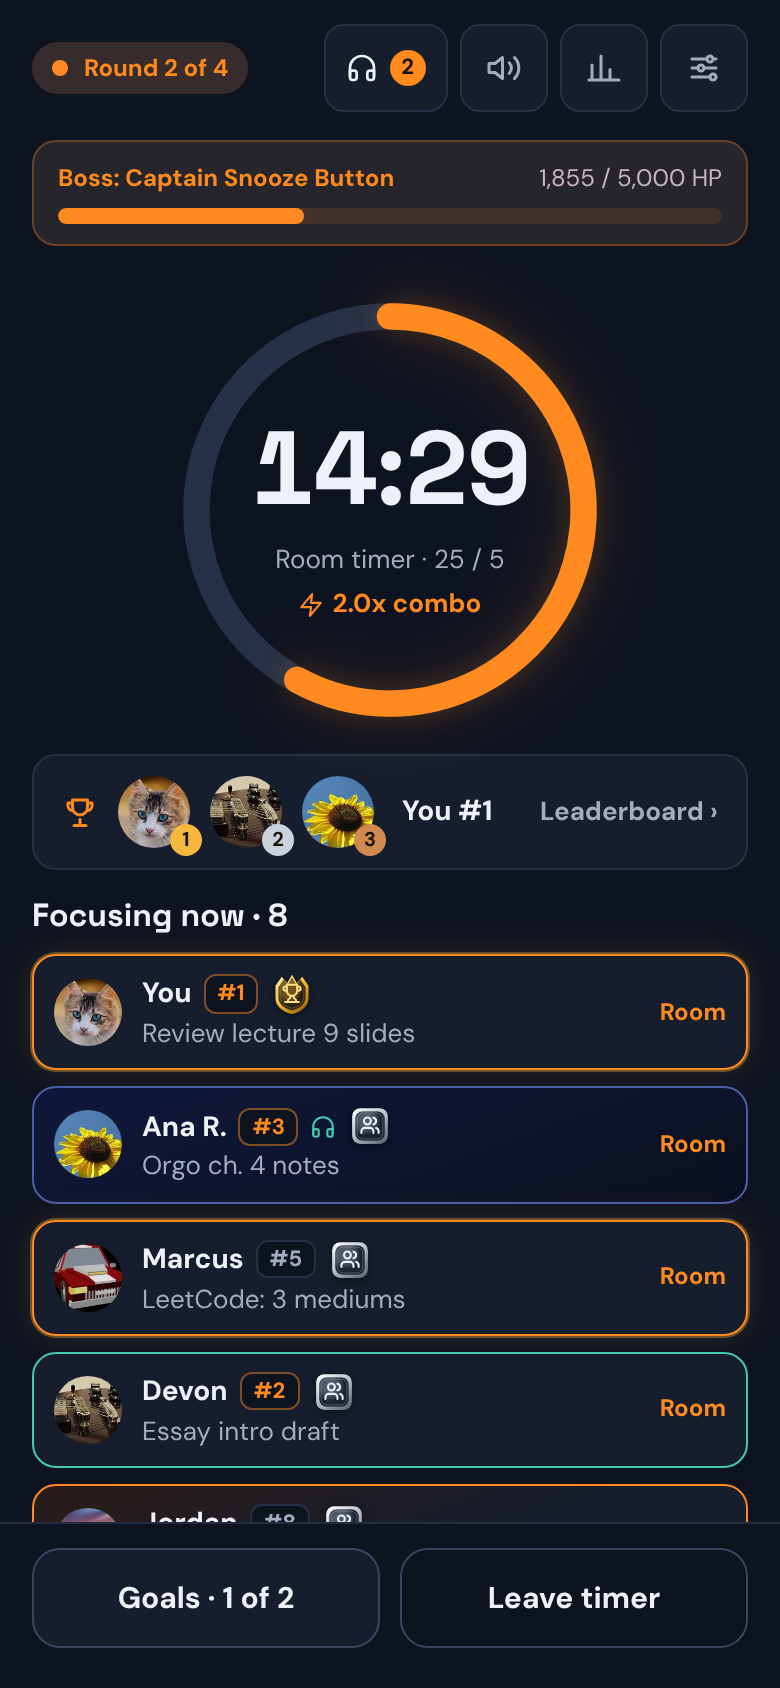
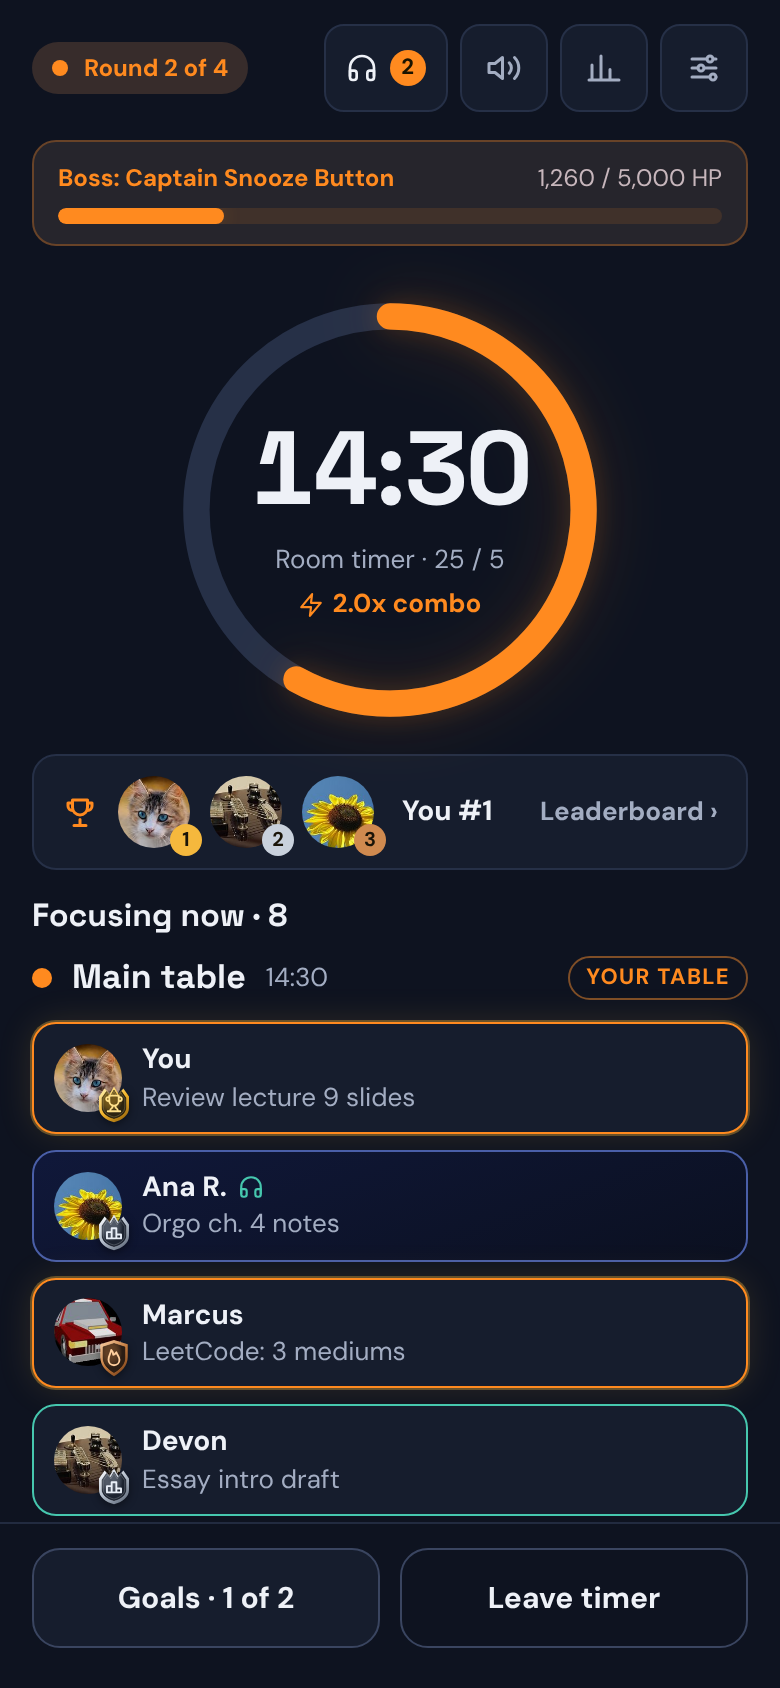
Release 0.7.1
Bump to 0.7.1, add the changelog entries #210, #213 to #216, #218
and #219 were missing, update the README features and retake its
screenshots. The screenshot script now passes join=0, since the
demo starts you on the room timer since #211.

Claude-Session: https://claude.ai/code/session_017BA9j8rYAD3LdtqLzHbtDj

diff --git a/README.md b/README.md
@@ -40,13 +40,13 @@ Study Squad is a group study timer for [Root](https://www.rootapp.com) communiti
 - **Game layer**: XP, levels, streaks, a weekly boss, quests, color tiers that change the app's accent as your hours grow, and over 80 badges with their own unlock cinematics
 - **Sounds**: 20 bundled lo-fi tracks with rain, café or forest ambience underneath
 - **Leaderboards** by minutes or XP, with a toggle to hide yourself
-- **Light and dark**, desktop and phone
+- **Light and dark**, desktop and phone, with keyboard shortcuts on desktop
 
 <details>
-<summary>All features (v0.7.0)</summary>
+<summary>All features (v0.7.1)</summary>
 
 - **Shared room timer** (25/5, 50/10 or custom, rounds of 4 with a long break) and **solo timers** that still show on the board
-- **Live focus board**: who's focusing, on what, how long is left, their rank and who's in voice. Goals can be private ("Focusing")
+- **Live focus board**: who's focusing, on what, how long is left and who's in voice, with solo timers grouped under Solo. Goals can be private ("Focusing")
 - **Study tables**: start a named table like "Calc II" with its own 25/5 or 50/10 timer and tap Sit here to join, all from the Start focusing sheet. Everyone at every table still counts toward the room's combo, shown inside the timer ring
 - **Scheduled sessions**: plan one from the Later tab of the Start focusing sheet, tap I'm in, and get a mention in the channel when it starts
 - **Sounds**: a music player with 20 calm lo-fi tracks (CC0) plus rain, storm, café, fireplace or forest ambience layered underneath, each with its own volume. It fades out on breaks and ships inside the app, so nothing is loaded from outside
@@ -54,12 +54,13 @@ Study Squad is a group study timer for [Root](https://www.rootapp.com) communiti
 - **Goals list**: add, edit, drag to reorder (the top goal is the one on your card), and clear finished goals in one tap. Finished goals fold into one row and show how long they took. The first 5 goals finished each day pay +25 XP
 - **Break moment**: XP earned, streak, damage dealt to the boss, and "did you finish your goal?"
 - **Game layer**: XP and levels with no daily cap, a combo multiplier for focusing together (+0.2x per extra person, no cap), color tiers from Spark to Starlight that set the app's accent by lifetime focus hours, a weekly built-in boss with its own strength, weekly quests, over 80 badges to collect (some secret, some in their own colors, plus a neon ring for each color tier) and card styles that unlock with level
-- **Big moments**: badge unlocks are short cinematics with recorded orchestral music for each tier and recorded sound effects on the action, and when the room defeats the weekly boss everyone sees it shatter and a gold boss slayer medal rise
+- **Big moments**: badge unlocks are short cinematics with recorded orchestral music for each tier and recorded sound effects on the action, and when the room defeats the weekly boss everyone sees it shatter and a gold boss slayer medal rise. Replay any unlock from Nice!, your progress shelf or your profile
 - **Leaderboard** by focus minutes or XP, for this week, month, year or all time. Members can hide themselves
 - **Streaks without guilt**: one finished session counts the day (the calendar outlines days that didn't count), one free freeze per week, and days start at 4am so late nights count
 - **Keep going?** at the end of each cycle, so a forgotten timer can't farm XP all day
 - **Voice**: admins pick the community's voice channel from a dropdown in Room settings. The room shows a Join voice button (it asks first) and headphones next to whoever is in the call
 - **Channel posts**: daily recap, "room is busy", streak milestones, boss defeats, and a squad bot that cheers on the people studying. Bot @mentions are off by default, so names are plain text unless an admin turns pings on
+- **Keyboard shortcuts**: F to start focusing, S for a solo timer, G for goals, M for sounds and more, with a "?" list and arrow keys in every list and grid
 - **Light and dark**: follows the theme picked in Root and switches live (the demo follows your device)
 - **Send feedback** straight to the developer, anonymously, from Room settings
 - **Admin settings** through Root's App settings (no custom admin UI to secure), plus the voice channel dropdown in Room settings

diff --git a/CHANGELOG.md b/CHANGELOG.md
@@ -4,12 +4,26 @@ All notable changes are listed here. The format follows [Keep a Changelog](https
 
 ## [Unreleased]
 
+## [0.7.1] - 2026-11-15
+
+Keyboard shortcuts, a new sound pack, badge details on profiles, and a cleaner room.
+
 ### Added
 
 - A small Replay link under Nice! on every badge unlock plays the animation and its sound again from the start.
+- Keyboard shortcuts for the main actions (F to start focusing, S for a solo timer, G for goals, M for sounds, P for progress and more), a "?" list of them, and arrow keys inside every pick-one group, list and grid.
+- On a profile, tapping a badge opens its details right below it. On your own profile you can also Replay it and put it on or take it off your card.
+
+### Fixed
+
+- A streak calendar day covered by the weekly freeze now shows as frozen even if it also had unfinished focus time.
 
 ### Changed
 
+- New UI sounds from the Study Squad Audio Pack (CC0) for focus and break starts and ends, the countdown, button taps, and members joining or leaving the board.
+- The color tier unlock hum is louder.
+- The sparkle glints on the 3D platinum and secret medals are gone.
+- Opening Start focusing no longer jumps the cursor into the goal box, so the phone keyboard doesn't pop up (the F shortcut still does).
 - Cleaner room: the goals card no longer shows the "XP for each goal" line, and the combo inside the clock only shows while someone is on a room timer.
 - Cleaner room: removed the header round pill on desktop (phones keep it), the "in the room" count, the "Posts in #channel" line, the room timer chip on member cards (Solo and Break chips stay) and the boss explainer paragraph.
 - The badge a member shows on their card now sits on the corner of their avatar instead of next to their name.
